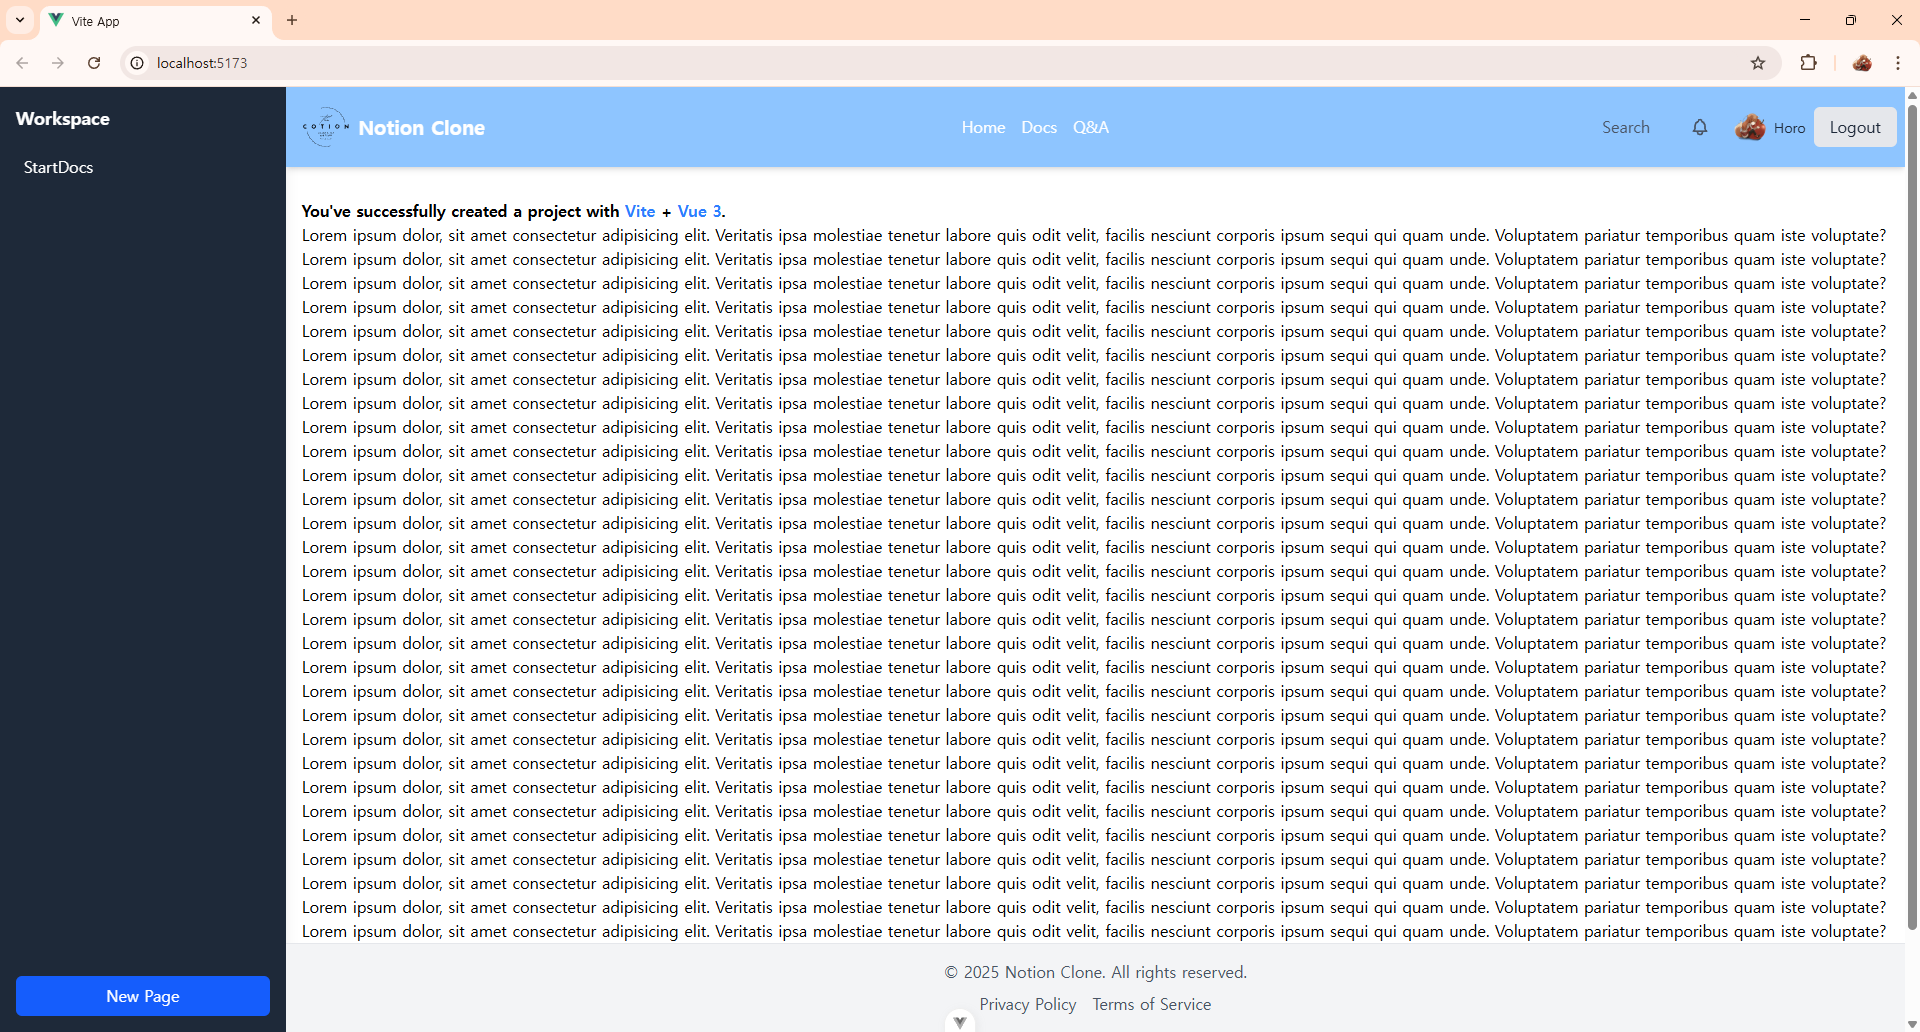
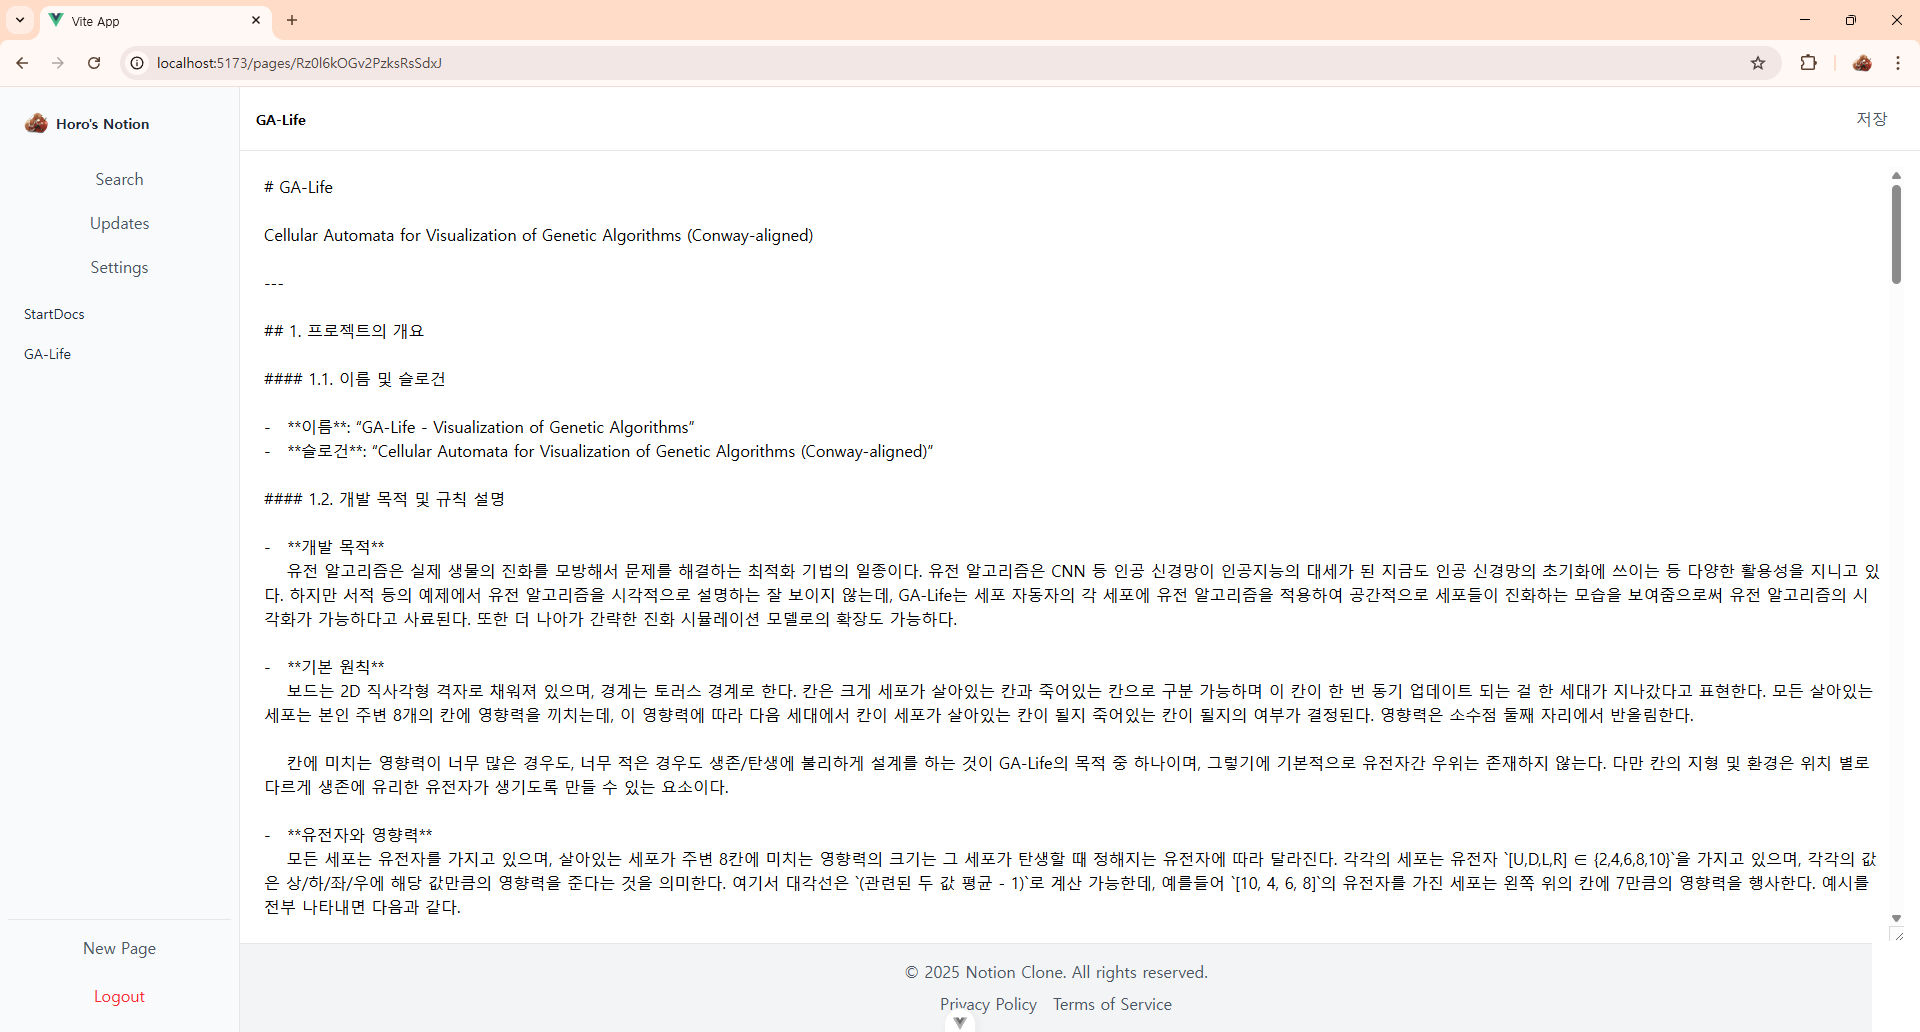
refactor(ui): implement robust flexbox layout and fix positioning bugs
- Replaces the entire page layout with a standard flexbox structure in `HomePage.vue` to prevent component overlap and ensure proper scaling.
- Removes `position: fixed` from `AppSidebar` and `AppHeader`, making them part of the document flow for a more stable layout.
- Relocates the "Save" button from `PageView.vue` to `AppHeader.vue` to solve a stacking context issue where the button was hidden by a parent with an `overflow` property.
- Implements a store-based trigger (`saveTrigger`) to facilitate communication between the header's save button and the page view's save logic.

diff --git a/src/widgets/AppSidebar.vue b/src/widgets/AppSidebar.vue
@@ -3,10 +3,12 @@ import { watch } from 'vue';
 import { storeToRefs } from 'pinia';
 import { useAuthStore } from '@/app/store/auth.store';
 import { usePageStore } from '@/entities/page/page.store';
-import Button from '@/shared/ui/AppButton.vue';
+import AppButton from '@/shared/ui/AppButton.vue';
+import { RouterLink } from 'vue-router';
 
 const authStore = useAuthStore();
-const { isLoggedIn } = storeToRefs(authStore);
+const { isLoggedIn, user } = storeToRefs(authStore);
+const { logout } = authStore;
 
 const pageStore = usePageStore();
 const { pages, isLoading } = storeToRefs(pageStore);
@@ -19,49 +21,54 @@ watch(
     if (loggedIn) {
       pageStore.fetchPages();
     } else {
-      // 로그아웃 시 페이지 목록을 비웁니다. (스토어에서 이미 처리하지만 명시적)
       pages.value = [];
     }
   },
-  { immediate: true } // 컴포넌트가 마운트될 때 즉시 실행
+  { immediate: true }
 );
 </script>
 
 <template>
+  <!-- 사이드바 전체 컨테이너: w-60 (240px) 고정 너비, 밝은 회색 배경, 오른쪽 보더 -->
   <aside
-    class="fixed top-0 left-0 h-full w-[15%] bg-gray-800 text-white p-4 flex flex-col shadow-lg"
+    class="w-60 bg-slate-50 text-gray-800 p-2 flex flex-col border-r border-gray-200"
   >
-    <div class="flex items-center justify-between mb-4">
-      <span class="text-lg font-bold">Workspace</span>
-      <!-- Add workspace options/menu here later -->
+    <!-- 1. 워크스페이스 / 사용자 정보 섹션 -->
+    <div v-if="isLoggedIn && user" class="p-2 mb-2">
+      <div class="flex items-center gap-2 p-2 rounded hover:bg-gray-200 cursor-pointer">
+        <img :src="user.photoURL || '/src/shared/assets/images/SampleUserAvatar.png'" alt="User Avatar" class="w-6 h-6 rounded-full" />
+        <span class="font-bold text-sm truncate">{{ user.displayName || user.email }}'s Notion</span>
+      </div>
     </div>
 
-    <div v-if="isLoggedIn" class="flex-grow">
-      <div v-if="isLoading" class="text-gray-400">Loading pages...</div>
-      <ul v-else-if="pages.length > 0" class="flex flex-col space-y-2">
-        <li v-for="page in pages" :key="page.id">
-          <!--
-            <RouterLink>는 Vue Router에서 페이지 이동을 위해 사용하는 핵심 컴포넌트입니다.
-            일반 <a> 태그와 달리, 페이지 전체를 새로고침하지 않고 URL과 화면만 부드럽게 전환해줍니다. (SPA의 핵심)
+    <!-- 2. 주요 기능 버튼 (검색, 알림, 설정) -->
+    <div v-if="isLoggedIn" class="flex flex-col gap-1 mb-2 px-2">
+      <AppButton variant="ghost" class="justify-start">Search</AppButton>
+      <AppButton variant="ghost" class="justify-start">Updates</AppButton>
+      <AppButton variant="ghost" class="justify-start">Settings</AppButton>
+    </div>
 
-            :to 속성에는 이동할 경로 정보를 객체 형태로 전달합니다.
-            - name: router/index.ts에서 설정한 라우트의 이름(name: 'PageDetail')을 가리킵니다.
-                    이름을 사용하면 나중에 URL 구조가 바뀌어도 코드를 수정할 필요가 없어 편리합니다.
-            - params: 라우트 경로에 포함될 동적 파라미터입니다. { pageId: page.id }는
-                      URL을 '/pages/실제페이지ID' 형태로 만들어줍니다.
-          -->
+    <!-- 3. 페이지 목록 -->
+    <div v-if="isLoggedIn" class="flex-grow overflow-y-auto">
+      <div v-if="isLoading" class="px-4 text-gray-400">Loading pages...</div>
+      <ul v-else-if="pages.length > 0" class="flex flex-col space-y-1 px-2">
+        <li v-for="page in pages" :key="page.id">
           <RouterLink
             :to="{ name: 'PageDetail', params: { pageId: page.id } }"
-            class="block p-2 rounded hover:bg-gray-700"
+            class="block p-2 rounded hover:bg-gray-200 text-sm"
           >
             {{ page.title }}
           </RouterLink>
         </li>
       </ul>
-      <div v-else class="text-gray-400">No pages yet.</div>
+      <div v-else class="px-4 text-gray-400">No pages yet.</div>
     </div>
-    <div v-else class="text-gray-400 flex-grow">Please log in to see your pages.</div>
+    <div v-else class="text-gray-400 flex-grow px-4">Please log in to see your pages.</div>
 
-    <Button v-if="isLoggedIn" @click="createPage" variant="primary" class="w-full mt-4">New Page</Button>
+    <!-- 4. 새 페이지 버튼 및 로그아웃 -->
+    <div v-if="isLoggedIn" class="mt-auto p-2 border-t border-gray-200">
+       <AppButton @click="createPage" variant="ghost" class="w-full justify-start mb-2">New Page</AppButton>
+       <AppButton @click="logout" variant="ghost" class="w-full justify-start text-red-500">Logout</AppButton>
+    </div>
   </aside>
 </template>

diff --git a/src/pages/PageView.vue b/src/pages/PageView.vue
@@ -3,11 +3,11 @@ import { computed, ref, watch, watchEffect } from 'vue';
 import { useRoute } from 'vue-router';
 import { usePageStore } from '@/entities/page/page.store';
 import { storeToRefs } from 'pinia';
-import AppButton from '@/shared/ui/AppButton.vue';
 
 const route = useRoute();
 const pageStore = usePageStore();
-const { pages, getPageById } = storeToRefs(pageStore);
+// saveTrigger를 스토어에서 가져옵니다.
+const { pages, getPageById, saveTrigger } = storeToRefs(pageStore);
 
 const currentPage = computed(() => {
   const pageId = Array.isArray(route.params.pageId) ? route.params.pageId[0] : route.params.pageId;
@@ -17,35 +17,36 @@ const currentPage = computed(() => {
   return null;
 });
 
-// --- 에디터 로직 시작 ---
-
-// 1. 컴포넌트 내부의 로컬 상태를 만듭니다. textarea의 내용과 바인딩됩니다.
 const localContent = ref('');
 
-// 2. 페이지가 변경될 때마다(currentPage가 바뀔 때마다) currentPage의 내용을 localContent에 복사합니다.
-//    이렇게 해야 다른 페이지로 이동했을 때 textarea의 내용도 함께 바뀝니다.
 watch(
   currentPage,
   (newPage) => {
     if (newPage) {
-      // newPage.content가 null이나 undefined일 경우를 대비해 빈 문자열로 처리합니다.
       localContent.value = newPage.content || '';
     }
   },
-  { immediate: true } // 컴포넌트가 처음 로드될 때도 즉시 실행합니다.
+  { immediate: true }
 );
 
-// 3. 저장 버튼을 눌렀을 때 실행될 함수입니다.
 async function handleSave() {
   if (!currentPage.value) {
-    alert('페이지 정보를 찾을 수 없습니다.');
+    // 이 시점에는 페이지가 있어야 하므로, alert 대신 console.error 사용
+    console.error('저장할 페이지 정보를 찾을 수 없습니다.');
     return;
   }
   await pageStore.updatePageContent(currentPage.value.id, localContent.value);
-  alert('저장되었습니다!'); // 사용자에게 피드백을 줍니다.
+  alert('저장되었습니다!');
 }
 
-// --- 에디터 로직 끝 ---
+// 스토어의 saveTrigger 값이 변경될 때마다 handleSave 함수를 호출합니다.
+// (초기 실행은 방지하기 위해 { immediate: false }와 유사하게 동작)
+watch(saveTrigger, () => {
+  // 현재 페이지가 있을 때만 저장 로직을 실행합니다.
+  if (currentPage.value) {
+    handleSave();
+  }
+});
 
 watchEffect(() => {
   if (pages.value.length === 0) {
@@ -55,29 +56,15 @@ watchEffect(() => {
 </script>
 
 <template>
-  <div v-if="currentPage">
-    <div class="flex justify-between items-center mb-4">
-      <h1 class="text-2xl font-bold">{{ currentPage.title }}</h1>
-      <AppButton @click="handleSave">저장</AppButton>
-    </div>
-
-    <!-- 
-      v-model="localContent"를 통해 textarea의 내용을 
-      컴포넌트의 localContent 상태와 양방향으로 묶습니다.
-      사용자가 타이핑하면 localContent가 업데이트되고,
-      localContent가 바뀌면 textarea의 내용도 바뀝니다.
-    -->
+  <div v-if="currentPage" class="h-full">
     <textarea
       v-model="localContent"
-      class="w-full h-96 p-2 border rounded bg-gray-50 dark:bg-gray-800"
+      class="w-full h-full p-2 border-none rounded focus:outline-none bg-transparent"
       placeholder="내용을 입력하세요..."
     ></textarea>
+    <!-- 저장 버튼이 헤더로 이동했으므로 여기서 제거합니다. -->
   </div>
   <div v-else>
     <p>페이지를 불러오는 중이거나, 존재하지 않는 페이지입니다.</p>
   </div>
 </template>
-
-<style scoped>
-/* 스타일은 필요에 따라 추가 */
-</style>

diff --git a/src/widgets/AppHeader.vue b/src/widgets/AppHeader.vue
@@ -1,62 +1,44 @@
 <script setup lang="ts">
-import { storeToRefs } from 'pinia'
-import { useAuthStore } from '@/app/store/auth.store'
-import Button from '@/shared/ui/AppButton.vue'
+import { computed } from 'vue';
+import { useRoute } from 'vue-router';
+import { usePageStore } from '@/entities/page/page.store';
+import { storeToRefs } from 'pinia';
+import AppButton from '@/shared/ui/AppButton.vue';
 
-const authStore = useAuthStore()
-const { isLoggedIn, user } = storeToRefs(authStore)
-const { loginWithGoogle, logout } = authStore
+const route = useRoute();
+const pageStore = usePageStore();
+
+const { getPageById } = storeToRefs(pageStore);
+const currentPage = computed(() => {
+  const pageId = route.params.pageId as string;
+  if (pageId && getPageById.value) {
+    return getPageById.value(pageId);
+  }
+  return null;
+});
+
+// 저장 신호를 보내는 함수
+function triggerSave() {
+  pageStore.saveTrigger++;
+}
 </script>
 
 <template>
-  <header
-    class="fixed top-0 w-[85%] bg-blue-300 text-white p-2 shadow-md flex items-center justify-between"
-  >
-    <a href="/" class="flex items-center text-xl font-bold">
-      <img src="../shared/assets/CotionLogo.svg" alt="Logo" width="64px" height="64px" />
-      <h1>Notion Clone</h1>
-    </a>
-
-    <nav>
-      <ul class="flex space-x-4">
-        <li><a href="#" class="hover:text-red-200">Home</a></li>
-        <li><a href="#" class="hover:text-red-200">Docs</a></li>
-        <li><a href="#" class="hover:text-red-200">Q&A</a></li>
-      </ul>
-    </nav>
-
-    <!-- Right Section: Actions -->
-    <div class="flex items-center space-x-4">
-      <!-- Search Button -->
-      <Button v-if="isLoggedIn" variant="ghost">Search</Button>
-
-      <!-- Notifications Button -->
-      <Button v-if="isLoggedIn" variant="ghost" size="icon">
-        <svg
-          class="w-5 h-5"
-          fill="none"
-          stroke="currentColor"
-          viewBox="0 0 24 24"
-          xmlns="http://www.w3.org/2000/svg"
-        >
-          <path
-            stroke-linecap="round"
-            stroke-linejoin="round"
-            stroke-width="2"
-            d="M15 17h5l-1.405-1.405A2.032 2.032 0 0118 14.158V11a6.002 6.002 0 00-4-5.659V5a2 2 0 10-4 0v.341C7.67 6.165 6 8.388 6 11v3.159c0 .538-.214 1.055-.595 1.436L4 17h5m6 0v1a3 3 0 11-6 0v-1m6 0H9"
-          ></path>
-        </svg>
-      </Button>
-
-      <!-- Auth Block -->
-      <div v-if="isLoggedIn && user" class="flex items-center space-x-2">
-        <img class="w-8 h-8 rounded-full" :src="user.photoURL || ''" alt="User Avatar" />
-        <span class="text-sm font-medium text-gray-800">{{ user.displayName }}</span>
-        <Button @click="logout" variant="secondary">Logout</Button>
+  <header class="h-16 border-b border-gray-200 bg-white flex-shrink-0">
+    <div class="flex items-center justify-between h-full px-4">
+      <!-- 페이지 경로 (Breadcrumb) -->
+      <div v-if="currentPage" class="text-sm font-semibold">
+        {{ currentPage.title }}
+      </div>
+      <div v-else class="text-sm font-semibold">
+        Workspace
       </div>
 
-      <div v-else>
-        <Button @click="loginWithGoogle" variant="primary">Login with Google</Button>
+      <!-- 페이지 액션 버튼들 -->
+      <div class="flex items-center gap-2">
+        <!-- 현재 페이지가 있을 때만 저장 버튼을 보여줍니다. -->
+        <AppButton v-if="currentPage" @click="triggerSave">저장</AppButton>
+        <!-- 향후 공유, 댓글 등 다른 버튼 추가 -->
       </div>
     </div>
   </header>

diff --git a/src/pages/HomePage.vue b/src/pages/HomePage.vue
@@ -1,23 +1,30 @@
 <script setup lang="ts">
 import AppHeader from '@/widgets/AppHeader.vue'
-import AppSidebar from '@/widgets/AppSidebar.vue' // AppNavigation 대신 AppSidebar 임포트
+import AppSidebar from '@/widgets/AppSidebar.vue'
 import AppFooter from '@/widgets/AppFooter.vue'
 </script>
 
 <template>
-  <div class="flex">
+  <!-- 1. 전체 화면을 차지하는 flex 컨테이너 -->
+  <div class="flex h-screen bg-white">
+    <!-- 2. 사이드바: 고정 너비를 가짐 -->
     <AppSidebar />
-    <div class="w-full flex-1 ml-[15%]">
+
+    <!-- 3. 메인 영역: 남은 공간을 모두 차지하고, 내부에서 수직 flex 레이아웃을 가짐 -->
+    <div class="flex-1 flex flex-col overflow-hidden">
+      <!-- 3-1. 헤더 -->
       <AppHeader />
-      <div class="h-screen p-4 mt-24">
-        <!-- 
-          <RouterView />는 Vue Router가 제공하는 핵심 컴포넌트입니다.
-          현재 URL 경로와 일치하는 라우트 규칙을 찾고, 그 규칙에 연결된 컴포넌트를 이 자리에 렌더링합니다.
-          예를 들어, URL이 /pages/123 이면, router/index.ts에 설정한 규칙에 따라 PageView.vue 컴포넌트가 이 자리에 보이게 됩니다.
-          만약 일치하는 자식 라우트가 없으면 아무것도 표시되지 않습니다.
-        -->
+
+      <!-- 
+        3-2. 메인 콘텐츠: 
+        - flex-1: 남은 수직 공간을 모두 차지하여 푸터를 아래로 밀어냄
+        - overflow-y-auto: 내용이 길어지면 이 영역만 스크롤됨
+      -->
+      <main class="flex-1 overflow-y-auto p-4">
         <RouterView />
-      </div>
+      </main>
+
+      <!-- 3-3. 푸터: 메인 콘텐츠 아래에 위치 -->
       <AppFooter />
     </div>
   </div>

diff --git a/src/entities/page/page.store.ts b/src/entities/page/page.store.ts
@@ -17,6 +17,9 @@ export const usePageStore = defineStore('pages', () => {
     return (pageId: string) => pages.value.find((page) => page.id === pageId);
   });
 
+  // 헤더의 저장 버튼과 페이지 뷰의 저장 로직을 연결하기 위한 신호(trigger)입니다.
+  const saveTrigger = ref(0);
+
   async function fetchPages() {
     const authStore = useAuthStore();
     const user = authStore.user;
@@ -89,6 +92,7 @@ export const usePageStore = defineStore('pages', () => {
     getPageById, // 새로 만든 getter를 반환 객체에 추가합니다.
     fetchPages,
     createPage,
-    updatePageContent, // 새로 만든 액션을 반환 객체에 추가합니다.
+    updatePageContent,
+    saveTrigger, // 반환 객체에 추가
   };
 });

diff --git a/docs/mistakes/2025-09-30_session_summary.md b/docs/mistakes/2025-09-30_session_summary.md
@@ -1,0 +1,13 @@
+## 2025년 9월 30일 실수 요약
+
+### 1. `h-full` 높이 계산 오류로 인한 레이아웃 붕괴
+- **문제:** `PageView.vue`의 `textarea`에 `h-full` (height: 100%) 클래스를 적용하자, 저장 버튼을 포함한 컴포넌트 전체가 화면에 보이지 않음.
+- **원인:** `h-full`은 부모 요소의 높이가 명확하게 지정되어 있어야 동작한다. 하지만 당시 `textarea`의 부모 컨테이너는 내용에 따라 높이가 결정되었기 때문에, `textarea`의 높이를 계산할 수 없어 레이아웃 전체가 0의 높이를 갖게 되었다.
+- **해결:** 전체 레이아웃을 관리하는 `HomePage.vue`에서 `flex-1`과 `overflow-y-auto`를 사용해 본문 영역이 남은 공간을 모두 차지하도록 명확하게 정의하여, `h-full`이 올바르게 계산될 수 있는 컨텍스트를 만들어주었다.
+- **핵심 배움:** `height: 100%` (`h-full`)는 매우 유용하지만, 부모 요소부터 시작하여 높이 계산의 기준이 명확하게 잡혀있지 않으면 레이아웃 붕괴를 일으킬 수 있다. Flexbox나 Grid를 사용해 공간을 명확히 분할하는 것이 더 안정적이다.
+
+### 2. `position: fixed` 요소가 `overflow` 부모 안에서 사라지는 현상
+- **문제:** `position: fixed` 속성을 가진 저장 버튼이 `AppFooter`에 가려지거나, 특정 상황에서 아예 보이지 않음.
+- **원인:** CSS에서 `position: fixed`는 기본적으로 뷰포트(viewport)를 기준으로 위치하지만, **조상 요소 중 `overflow` 속성(hidden, auto, scroll 등)이 있으면 그 조상 요소를 기준으로 위치가 변경된다.** 스크롤이 가능한 `<main>` 영역 안에 저장 버튼이 있었기 때문에, 버튼이 화면 하단이 아닌 스크롤 영역의 하단에 위치하여 보이지 않았다.
+- **해결:** 저장 버튼을 스크롤 영역(`PageView.vue`) 밖의 비스크롤 영역(`AppHeader.vue`)으로 이동시켰다. 두 컴포넌트 간의 통신은 Pinia 스토어에 `saveTrigger`라는 상태를 만들어, 헤더가 신호를 보내고 페이지 뷰가 신호를 받아 저장 로직을 처리하는 방식으로 구현했다.
+- **핵심 배움:** `position: fixed`는 만능이 아니며, 스태킹 컨텍스트(Stacking Context)를 생성하는 특정 CSS 속성(`overflow`, `transform` 등)에 의해 기준점이 변경될 수 있음을 이해해야 한다. UI 요소의 책임과 위치를 신중하게 고려해야 한다.
